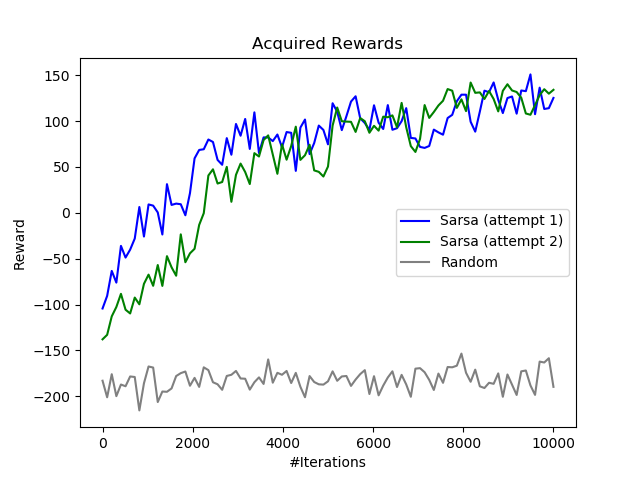
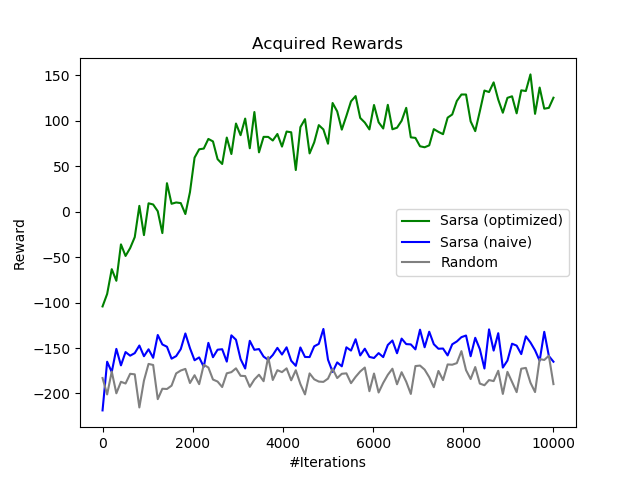
add naive sarsa stats

diff --git a/naive_sarsa_agent.py b/naive_sarsa_agent.py
@@ -1,0 +1,134 @@
+import collections
+import random
+import numpy as np
+import matplotlib.pyplot as plt
+
+import lunar_lander as lander
+
+
+def state_extractor(s):
+
+    state = (int((s[0] - 0.3 / 2.0) / 0.3), \
+            int((s[1] - 0.3 / 2.0) / 0.3), \
+            int((s[2] - 0.2 / 2.0) / 0.2), \
+            int((s[3] - 0.2 / 2.0) / 0.2), \
+            int((s[4] - 0.2 / 2.0) / 0.2), \
+            int((s[5] - 0.2 / 2.0) / 0.2), \
+            int(s[6]), \
+            int(s[7]))
+
+    return state
+
+
+def lr_scheduler(it):
+    return 1e-2
+
+
+def sa_key(s, a):
+    return str(s) + " " + str(a)
+
+
+def policy_explorer(s, Q, iter):
+    rand = np.random.randint(0, 100)
+
+    threshold = 20
+
+    if rand >= threshold:
+        Qv = np.array([ Q[sa_key(s, action)] for action in [0, 1, 2, 3]])
+        return np.argmax(Qv)
+    else:
+        return np.random.randint(0, 4)
+
+
+
+
+def sarsa_lander(env, seed=None, render=False, num_iter=50, seg=50):
+    env.seed(42)
+
+    Q = collections.defaultdict(float)
+
+    gamma = 0.95
+
+    r_seq = []
+    it_reward = []
+
+    for it in range(num_iter):
+        # initialize variables
+        total_reward = 0
+        steps = 0
+
+        lr = lr_scheduler(it)
+
+        # reset environment
+        s = env.reset()
+
+        ds = state_extractor(s)
+        a = policy_explorer(ds, Q, it)
+        # start Sarsa
+        while True:
+            # use a policy generator to guide sarsa exploration
+            # step and get feedback
+            sa = sa_key(ds, a)
+
+            sp, r, done, info = env.step(a)
+            # update corresponding Q
+            dsp = state_extractor(sp)
+            ap = policy_explorer(dsp, Q, it)
+
+            next_sa = sa_key(dsp, ap)
+
+            if not done:
+                Q[sa] += lr*(r + gamma * Q[next_sa] - Q[sa])
+            else:
+                Q[sa] += lr*(r - Q[sa])
+
+
+            ds = dsp
+            a = ap
+
+            total_reward += r
+
+            if render and it % seg == 0:
+                still_open = env.render()
+                if still_open == False: break
+
+            # if steps % 20 == 0 or done:
+            #     print("observations:", " ".join(["{:+0.2f}".format(x) for x in s]))
+            #     print("step {} total_reward {:+0.2f}".format(steps, total_reward))
+
+            steps += 1
+
+            if done or steps > 1000:
+                # if total_reward > 50:
+                #     print(ds, a, total_reward)
+                it_reward.append(total_reward)
+                break
+
+        if it % seg == 0:
+            avg_rwd = np.mean(np.array(it_reward))
+            print("#It: ", it, " avg reward: ", avg_rwd, " out of ", len(it_reward), " trials")
+            it_reward = []
+            r_seq.append(avg_rwd)
+
+    return Q, r_seq
+
+
+def main():
+    num_iter = 10000
+
+    env = lander.LunarLander()
+    Q, r_seq = sarsa_lander(env, render=True, num_iter=num_iter, seg=100)
+
+    y = np.array(r_seq)
+    x = np.linspace(0, num_iter, y.shape[0])
+
+    plt.plot(x, y, label='Naive Sarsa reward')
+    plt.savefig("results/naive_sarsa_reward.png")
+
+    np.savetxt("results/naive_sarsa_reward.txt", y)
+
+
+
+
+if __name__ == '__main__':
+    main()

diff --git a/results/stats_generator.py b/results/stats_generator.py
@@ -3,18 +3,18 @@ import matplotlib.pyplot as plt
 
 fn1 = "sarsa_reward.txt"
 fn2 = "random_reward.txt"
-fn3 = "sarsa_reward_1.txt"
+fn4 = "naive_sarsa_reward.txt"
 
 x_length = 10000
 
 g1 = np.loadtxt(fn1)
 g2 = np.loadtxt(fn2)
-g3 = np.loadtxt(fn3)
+g4 = np.loadtxt(fn4)
 
 x = np.linspace(0, x_length, g1.shape[0]-1)
 
-plt.plot(x, g1[1:], label='Sarsa (attempt 1)', color="blue")
-plt.plot(x, g3[1:], label='Sarsa (attempt 2)', color="green")
+plt.plot(x, g1[1:], label='Sarsa (optimized)', color="green")
+plt.plot(x, g4[1:], label='Sarsa (naive)', color="blue")
 plt.plot(x, g2[1:], label='Random', color="grey")
 plt.legend()
 plt.title("Acquired Rewards")
